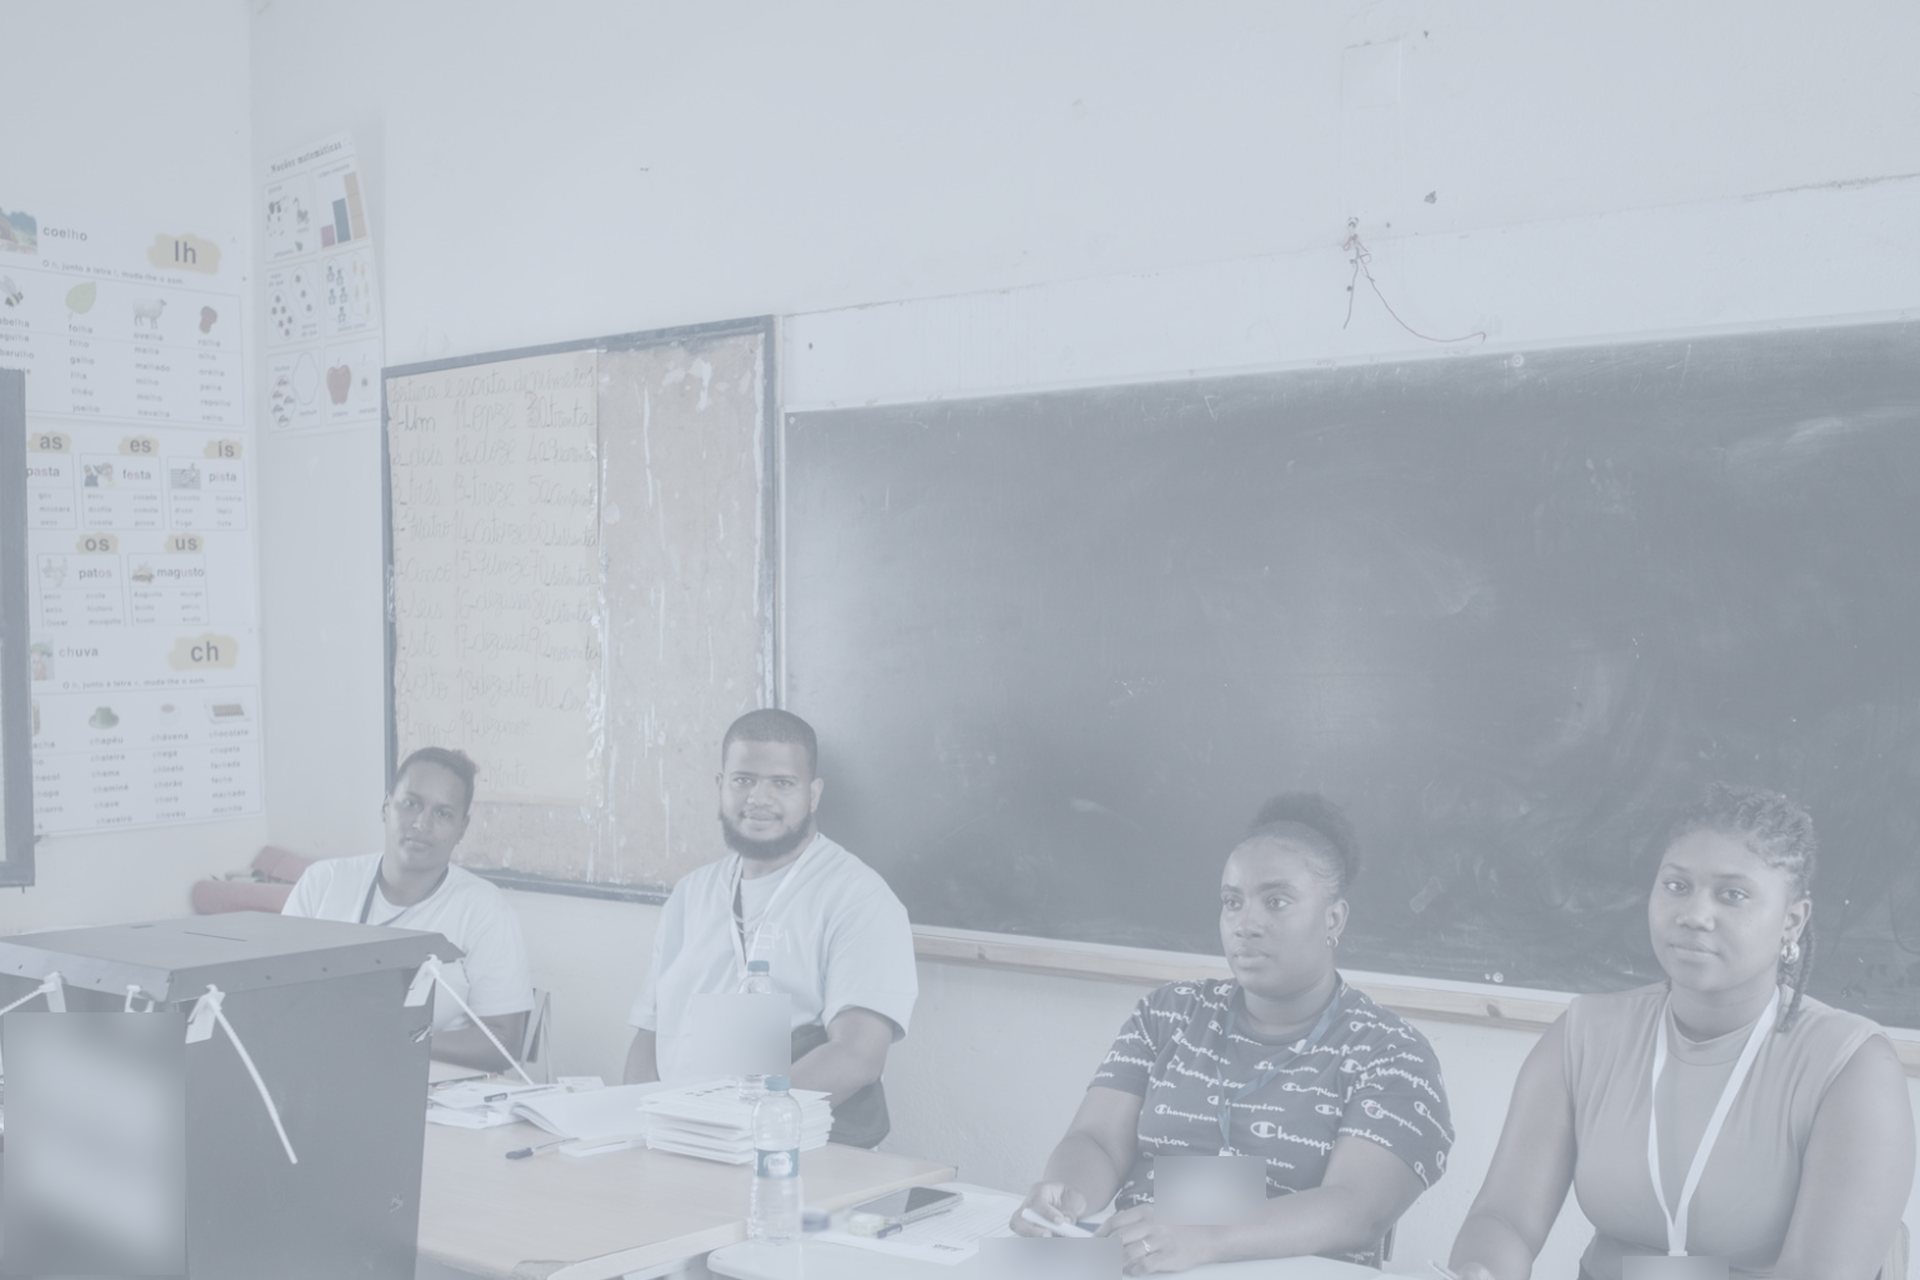
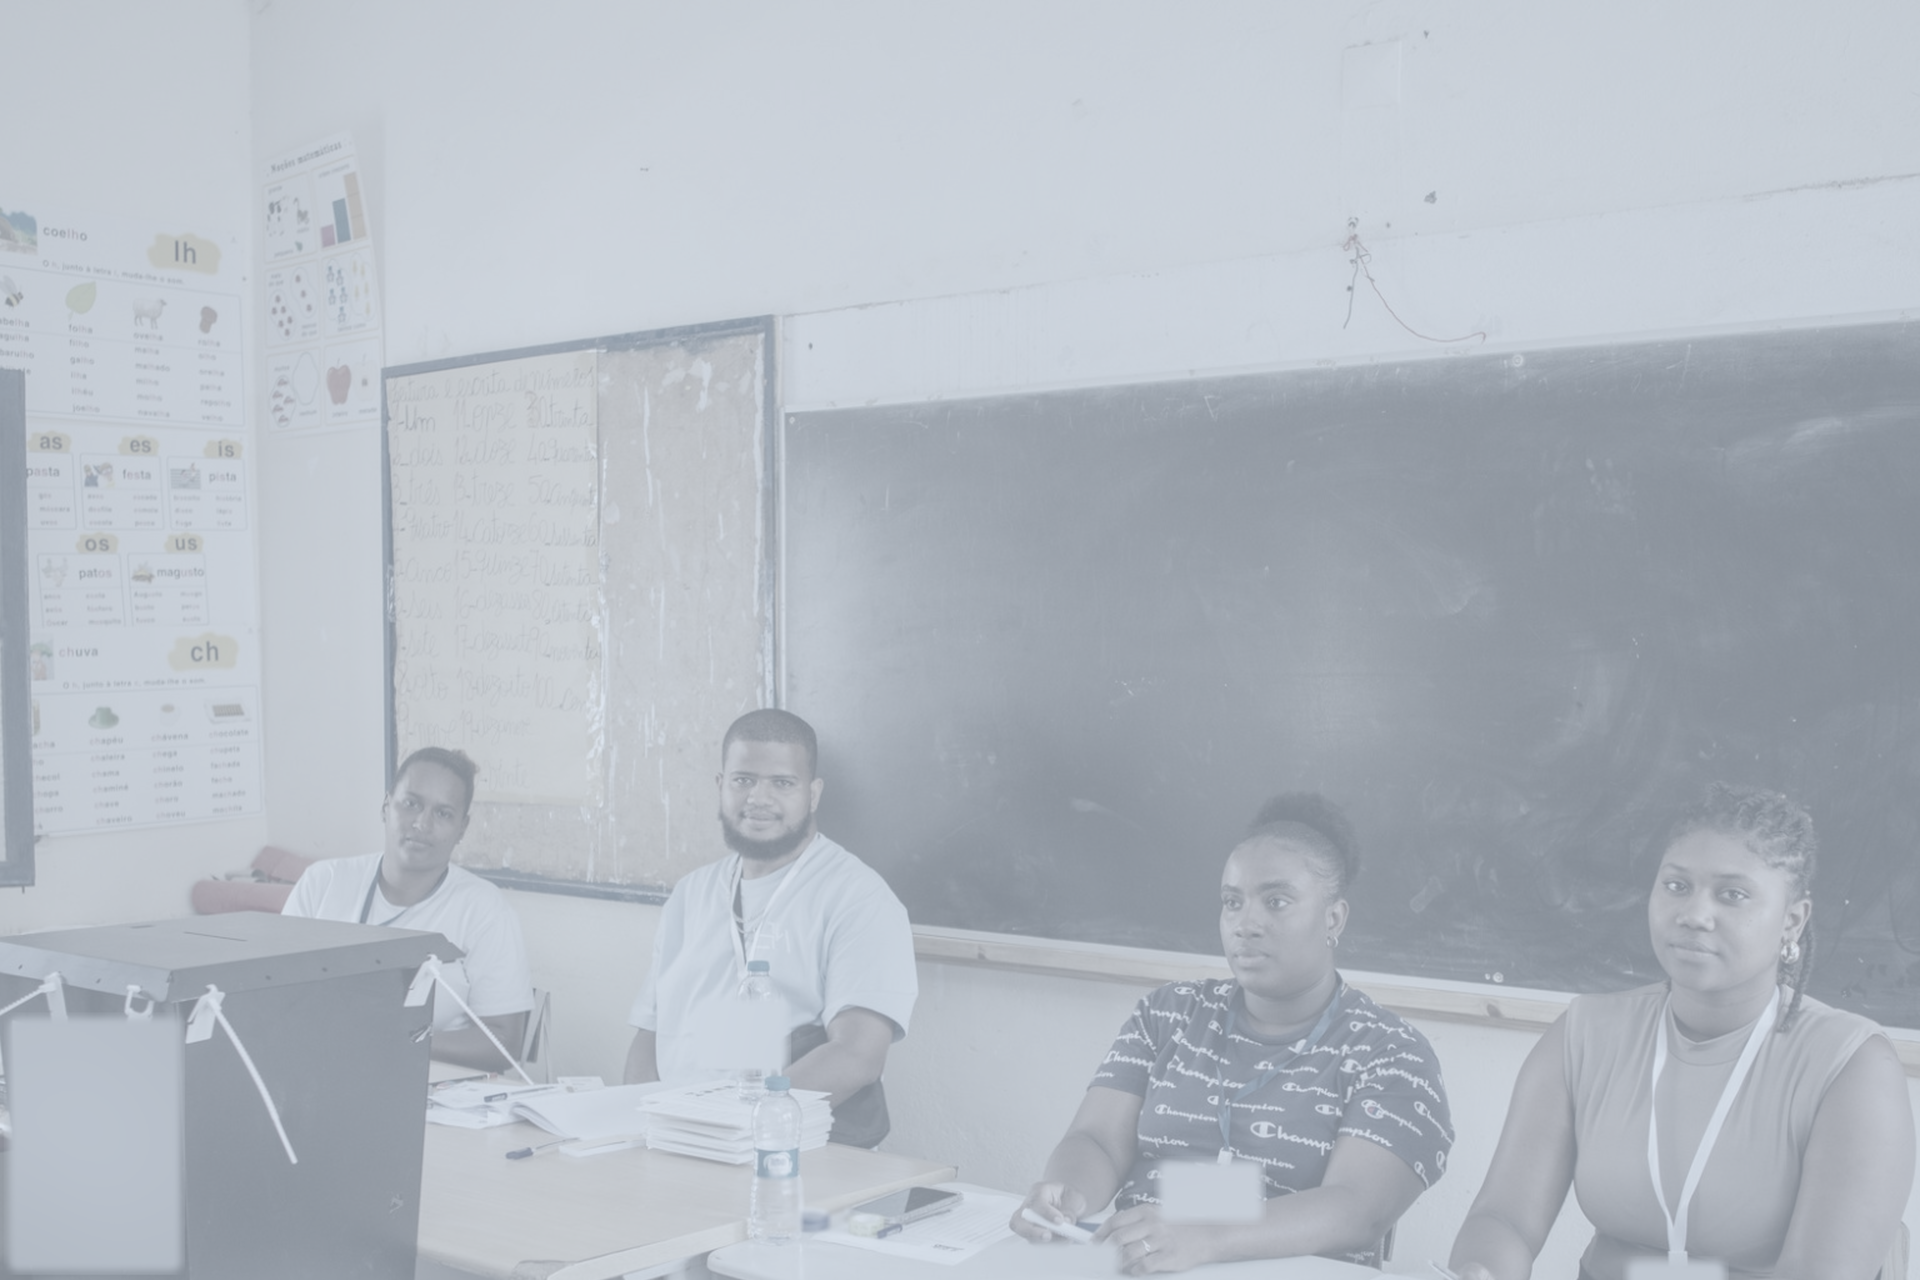
V1: blueprint de alterações (ícones para 'são restritos', 'são eles' só texto, fotos novas em moldura ou fundo); rótulos de urna limpos
Claude-Session: https://claude.ai/code/session_01B7qCVcC1uXVL2xuSSAUW2M

diff --git a/comunicado_regras/novos_src/motion/v1anim.html b/comunicado_regras/novos_src/motion/v1anim.html
@@ -62,7 +62,7 @@ svg.vic .hm,svg.vic .hh,svg.vic .f,svg.vic .g1,svg.vic .g2{transform-box:view-bo
 <script src="node_modules/gsap/dist/gsap.min.js"></script>
 <script src="data.js"></script><script>window.VID=new URLSearchParams(location.search).get('v')||'V1';document.write('<script src="'+(VID=='V2'?'v2':'v1')+'/beats.js"><\/script>')</script>
 <script>
-const OPT=new Set(window.VID=='V2'?(new URLSearchParams(location.search).get('o')||'T1,M15,P4,S6').split(','):[]);
+const OPT=new Set((new URLSearchParams(location.search).get('o')||(window.VID=='V2'?'T1,M15,P4,S6':'')).split(','));
 const DUR=window.VIDS[window.VID].dur, tl=gsap.timeline({paused:true}), world=document.getElementById('world');
 const el=(tag,cls,p,css)=>{const e=document.createElement(tag);if(cls)e.className=cls;if(css)e.style.cssText=css;p&&p.appendChild(e);return e};
 const SZ={n:50,b:72,r:76,s:38,h:118,hn:118};
@@ -101,6 +101,13 @@ const ICS={
   <g data-g="1"><circle class="d" cx="55" cy="60" r="5.5" stroke="${C}" stroke-width="3.4"/><path class="d" d="M45,86 L45,78 C45,71 65,71 65,78 L65,86" stroke="${C}" stroke-width="3.4"/>
   <circle class="d" cx="80" cy="64" r="5.5" stroke="${C}" stroke-width="3.4"/><path class="d" d="M70,90 L70,82 C70,75 90,75 90,82 L90,90" stroke="${C}" stroke-width="3.4"/><path class="d" d="M63,74 L70,68" stroke="${C}" stroke-width="3.4"/>
   <path class="d" d="M60,40 A14,14 0 1 1 66,46 L56,49 Z" stroke="${RD}"/><circle class="f" cx="70" cy="28" r="2" fill="${RD}" stroke="none"/><path class="d" d="M70,33 L70,42" stroke="${RD}"/></g>`,
+ cadeado:C=>`<g data-g="0"><rect class="d" x="22" y="44" width="56" height="46" rx="7" stroke="${C}"/><circle class="d" cx="50" cy="63" r="5" stroke="${RD}"/><path class="d" d="M50,68 L50,77" stroke="${RD}"/></g>
+  <g data-g="0" class="sh"><path class="d" d="M34,44 L34,30 A16,16 0 0 1 66,30 L66,44" stroke="${C}"/></g>`,
+ semacesso:C=>`<g data-g="0"><circle class="d" cx="50" cy="34" r="11" stroke="${C}"/><path class="d" d="M28,80 C28,58 72,58 72,80" stroke="${C}"/></g>
+  <g data-g="1" class="no"><circle class="d" cx="50" cy="52" r="44" stroke="${RD}" stroke-width="6"/><path class="d" d="M19,83 L81,21" stroke="${RD}" stroke-width="6"/></g>`,
+ barreira:C=>`<g data-g="0"><path class="d" d="M18,30 L18,88" stroke="${C}"/><path class="d" d="M82,30 L82,88" stroke="${C}"/><path class="d" d="M10,90 L26,90" stroke="${C}"/><path class="d" d="M74,90 L90,90" stroke="${C}"/>
+  <circle class="d" cx="18" cy="26" r="4" stroke="${C}"/><circle class="d" cx="82" cy="26" r="4" stroke="${C}"/></g>
+  <g data-g="1" class="rope"><path class="d" d="M18,38 Q50,62 82,38" stroke="${RD}" stroke-width="6"/></g>`,
  engren:C=>`<g data-g="0" class="g1"><path class="d" d="${gear(38,42,30,9)}" stroke="${C}"/><circle class="d" cx="38" cy="42" r="10" stroke="${C}"/></g>
   <g data-g="0" class="g2"><path class="d" d="${gear(78,80,17,7)}" stroke="${C}"/><circle class="d" cx="78" cy="80" r="6" stroke="${C}"/></g>
   <g data-g="1" class="ok"><circle class="d" cx="84" cy="22" r="15" stroke="${RD}"/><path class="d" d="M77,22 L82,27 L92,16" stroke="${RD}" stroke-width="4.6"/></g>`,
@@ -151,6 +158,9 @@ function svgIcon(p,kind,st,cx,cy,s2,ts,t1){
     tl.to(h,{scale:1.18,duration:.14,yoyo:true,repeat:1,transformOrigin:'50% 70%'},9.05);tl.to(h,{rotation:8,duration:.07,yoyo:true,repeat:5,transformOrigin:'50% 90%'},9.1)}
   if(kind=='portaentra'){tl.to(s.querySelector('.arrow'),{x:-7,duration:.45,yoyo:true,repeat:Math.max(1,Math.floor((t1-after)/.45)-1),ease:'sine.inOut'},after)}
   if(kind=='saida'){tl.to(s.querySelector('.arrow'),{x:7,duration:.45,yoyo:true,repeat:Math.max(1,Math.floor((t1-after)/.45)-1),ease:'sine.inOut'},after)}
+  if(kind=='cadeado'){const sh=s.querySelector('.sh');tl.fromTo(sh,{y:-14},{y:0,duration:.25,ease:'power4.in'},9.1);tl.to(s,{scale:1.08,duration:.1,yoyo:true,repeat:1},9.35)}
+  if(kind=='semacesso'){tl.fromTo(s.querySelector('.no'),{scale:1.4,transformOrigin:'50% 50%'},{scale:1,duration:.4,ease:'back.out(2)'},ts[1])}
+  if(kind=='barreira'){tl.fromTo(s.querySelector('.rope'),{y:-10},{y:0,duration:.8,ease:'elastic.out(1,.4)'},ts[1]+.3)}
   if(kind=='engren'){const g1=s.querySelector('.g1'),g2=s.querySelector('.g2');const o={a:0},sg=()=>{g1.setAttribute('transform',`rotate(${o.a*300} 38 42)`);g2.setAttribute('transform',`rotate(${-o.a*540} 78 80)`)};tl.fromTo(o,{a:0},{a:1,duration:t1-T,ease:'none',onUpdate:sg,onStart:sg},T);sg();
     tl.fromTo(s.querySelector('.ok'),{scale:.4,transformOrigin:'50% 50%'},{scale:1,duration:.5,ease:'back.out(3)'},ts[1])}
   if(kind=='checklist'){ts.slice(1).forEach(t=>tl.to(s,{scale:1.05,duration:.12,yoyo:true,repeat:1},t+.1))}
@@ -209,6 +219,11 @@ function trans(st,t){const A=st=='A';
 const scn=n=>n.replace(/[a-z]$/,'');
 // ---------- batidas ----------
 const BT=window.BEATS; let lista=null;
+if(window.VID=='V1'){const RI=['R1','R2','R3'].find(k=>OPT.has(k)),ICN={R1:'cadeado',R2:'semacesso',R3:'barreira'};
+  const PH={'6c':['tempo','V6c',['relogio']],'7a':['pres','V7a',[]],'7b':['extra','V7b',[]],'7c':['autoriza','V7c',[]]};
+  BT.forEach(b=>{if(b.n=='3'&&RI)b.ics=[ICN[RI]];
+    if(PH[b.n]&&OPT.has('F1')){b.ics=[];b.frame=PH[b.n][0]}
+    if(PH[b.n]&&OPT.has('F2')){b.ics=['bg_v1'+PH[b.n][0],...PH[b.n][2]];b.lay=PH[b.n][1]}})}
 BT.forEach(b=>{const MV=['M10','M11','M12','M13','M14','M15','M16','M17','M18'].find(k=>OPT.has(k));
   if(b.n=='23b'&&MV){b.ics=MV=='M11'?[]:['bg_13a'];b.st='A';b.lay=MV}
   else if(b.n=='23b'&&OPT.has('M7')){b.ics=['bg_13a'];b.st='A';b.lay='M7'}
@@ -224,6 +239,7 @@ BT.forEach(b=>{const MV=['M10','M11','M12','M13','M14','M15','M16','M17','M18'].
   if(b.n=='28'&&(OPT.has('S1')||OPT.has('S2')))b.ics=[OPT.has('S2')?'PANELSUP':'bg_sup','troca']});
 const LAY={bg_13:{tx:[140,215],ic:[1560,400,300],ts:{engren:[11.35,14.6],checklist:[11.35,11.9,12.6,14.6]}},bg_38:{tx:[140,575],ic:[1650,330,250],ts:{tel1:[36.7,39.2],tel2:[36.7,39.2]}},
   bg_sup:{dy:150,ic:[560,720,300]},
+  V6c:{kb:1,tx:[960,175]},V7a:{kb:1,tx:[1010,690]},V7b:{kb:1,tx:[140,690]},V7c:{kb:1,bgTop:0,tx:[140,195]},
   M7:{kb:1,bgTop:0,custom:1},M10:{kb:1,bgTop:0,bgLeft:560,custom:1},M11:{custom:1},M12:{kb:1,bgTop:0,custom:1},
   M13:{kb:1,bgTop:0,custom:1,cc:{top:178,sz:[.82,.92,.82,.82],dx:[0,0,0,0]}},
   M14:{kb:1,bgTop:0,custom:1,cc:{top:178,sz:[.82,.92,.82,.82],dx:[-170,-60,60,170]}},
@@ -242,6 +258,31 @@ BT.forEach((b,i)=>{
   if(!prev||prev.st!=st){if(prev)trans(st,t0);else setStyle(st,t0)}
   const ics=b.ics;
   // LISTA (5a..5e): um só bloco persistente
+  const LV=['L1','L2','L3'].find(k=>OPT.has(k));
+  if(Array.isArray(ics)&&ics[0]=='LISTA'&&LV){
+    if(!lista){const g=el('div','beat '+st,world);const tEnd=BT.filter(x=>Array.isArray(x.ics)&&x.ics[0]=='LISTA').pop().t1;
+      tl.set(g,{visibility:'visible'},t0);tl.set(g,{visibility:'hidden'},tEnd);
+      const k=el('div','abs',g,'left:140px;top:205px');kicker(k,b.kick,st,t0+.1);
+      const items=[['MEMBROS','DA MESA'],['REPRESENTANTES','DA CNE E APOIO'],['CANDIDATOS','E MANDATÁRIOS'],['DELEGADOS','DAS CANDIDATURAS']];
+      const row=el('div','abs',g,`left:140px;right:140px;top:${LV=='L2'?360:430}px;display:flex;justify-content:space-between;align-items:flex-start`);
+      const cols=items.map((it,j)=>{const c=el('div','',row,'position:relative');
+        if(LV=='L2'){const nb=el('div','',c,'font-weight:800;color:#D4292E;font-size:130px;line-height:1;margin-bottom:14px');nb.textContent='0'+(j+1)}
+        const t1_=el('div','',c,'font-weight:800;color:'+(LV=='L3'?'#fff':'#19296D')+';font-size:'+(LV=='L3'?40:48)+'px;white-space:nowrap;line-height:1.1;display:inline-block');t1_.textContent=it[0];
+        if(LV=='L3'){t1_.style.cssText+=';background:#19296D;border-radius:60px;padding:22px 32px'}
+        const t2=el('div','',c,'font-weight:800;color:#D4292E;font-size:'+(LV=='L3'?30:32)+'px;white-space:nowrap;margin-top:'+(LV=='L3'?18:12)+'px'+(LV=='L3'?';padding-left:32px':''));t2.textContent=it[1];
+        if(LV=='L1'&&j>0){const ln=el('div','abs',c,'left:-34px;top:-8px;width:5px;height:120px;background:#D4292E;transform-origin:50% 0');c._ln=ln}
+        const ul=el('div','abs',c,'left:'+(LV=='L3'?32:0)+'px;top:100%;margin-top:20px;width:130px;height:9px;background:#D4292E;transform-origin:0 50%');c._ul=ul;tl.set(ul,{scaleX:0},0);
+        return c});
+      const foot=el('div','abs',g,`left:140px;top:${LV=='L2'?800:760}px;font-weight:800;color:#19296D;font-size:44px`);foot.textContent='NOS TERMOS DA LEI';
+      lista={g,cards:cols,foot};tl.set(cols,{opacity:0},0)}
+    const f=ics[1], C=lista.cards;
+    if(f!==null){const c=C[f];const tw=[23.55,24.95,28.55,32.05][f];
+      tl.fromTo(c,{opacity:0,y:LV=='L3'?-120:60},{opacity:1,y:0,duration:.7,ease:LV=='L3'?'bounce.out':'power3.out'},tw);if(c._ln)tl.fromTo(c._ln,{scaleY:0},{scaleY:1,duration:.5},tw);
+      tl.to(c._ul,{scaleX:1,duration:.5,ease:'expo.out'},tw+.3);
+      C.slice(0,f).forEach(o=>{tl.to(o,{opacity:.4,duration:.4},tw);tl.to(o._ul,{scaleX:0,duration:.3},tw)})}
+    else{tl.to(C,{opacity:1,duration:.5,stagger:.05},t0+.05);tl.fromTo(lista.foot,{opacity:0,x:-30},{opacity:1,x:0,duration:.5},t0+.2)}
+    if(next&&!(Array.isArray(next.ics)&&next.ics[0]=='LISTA'))tl.to(lista.g,{opacity:0,duration:.3},t1-.3);
+    return}
   if(Array.isArray(ics)&&ics[0]=='LISTA'){
     if(!lista){const g=el('div','beat '+st,world);const tEnd=BT.filter(x=>Array.isArray(x.ics)&&x.ics[0]=='LISTA').pop().t1;
       tl.set(g,{visibility:'visible'},t0);tl.set(g,{visibility:'hidden'},tEnd);
@@ -351,12 +392,14 @@ BT.forEach((b,i)=>{
     if(MF=='MESA'){img(w,'v1/mesa.png','width:870px;left:0;top:0')}
     else{const o=img(w,'v1/mesa_out.png','width:870px;left:0;top:0'),p=img(w,'v1/mesa_pres.png','width:870px;left:0;top:0;transform-origin:50% 100%');
       tl.to(o,{opacity:.35,filter:'grayscale(1)',duration:.6},t0+1.3);tl.fromTo(p,{scale:1},{scale:1.05,duration:.6,ease:'back.out(2)'},t0+1.3)}}
+  if(b.frame){const fr=el('div','abs',g,'left:110px;top:290px;width:780px;height:520px;border-radius:36px;overflow:hidden;box-shadow:0 22px 44px rgba(0,0,0,.28)');const pi=img(fr,'v2/fr_'+b.frame+'.jpg','left:0;top:0;width:780px');
+    tl.fromTo(fr,{clipPath:'inset(0% 50% 0% 50% round 36px)',y:40},{clipPath:'inset(0% 0% 0% 0% round 36px)',y:0,duration:.9,ease:'power3.out'},t0+.1);tl.fromTo(pi,{scale:1.12},{scale:1,duration:t1-t0,ease:'none'},t0)}
   if(ics[0]=='FOTO2'){const u=img(g,'v1/urna.png','height:760px;left:'+(510-0.415*760)+'px;top:-6px');tl.fromTo(u,{y:-200,opacity:0},{y:0,opacity:1,duration:.9,ease:'power3.out'},t0)}
   const LY=LAY[b.lay||BGK||ics[0]]; const NOCARD=BGK=='bg_3a'||!!LY; if(st=='B'&&L.length&&!MF&&!NOCARD){const c=el('div','card',g,'left:220px;top:290px;width:580px;height:540px');tl.fromTo(c,{scale:.8,opacity:0},{scale:1,opacity:1,duration:.6,ease:'back.out(1.5)'},b.n=='3'?6.6:t0)}
   const icTimes=[b.n=='3'?6.75:t0+.15,(b.lines[1]||b.lines[0]||[0,0,t0+.8])[2]];
     L.forEach((k,j)=>{let sz=L.length==1?360:(j==0?230:200), cx=L.length==1?510:(j==0?395:645), cy=L.length==1?560:(j==0?540:600);
-    if(NOCARD){sz=260;cx=330;cy=330} if(LY){[cx,cy,sz]=LY.ic}
-    const s2=sz*600/440, T0=b.n=='3'?6.75:t0+.15; let ts=k=='autoriza'?[T0,b.lines[1][2]-.05]:[j==0?T0:Math.max(T0+.5,icTimes[1]-.1)]; if(LY&&LY.ts&&LY.ts[k])ts=LY.ts[k];
+    if(NOCARD){sz=260;cx=330;cy=330} if(LY&&LY.ic){[cx,cy,sz]=LY.ic}
+    const s2=sz*600/440, T0=b.n=='3'?6.75:t0+.15; let ts=k=='autoriza'?[T0,b.lines[1][2]-.05]:[j==0?T0:Math.max(T0+.5,icTimes[1]-.1)]; if(LY&&LY.ts&&LY.ts[k])ts=LY.ts[k]; if(b.n=='3'&&/semacesso|barreira/.test(k))ts=[6.75,9.1];
     svgIcon(g,k,st,cx,cy,s2,ts,t1)});
   const tx=el('div','txt '+st,g); let kk=null; if(NOCARD&&!LY){tx.style.left='140px';tx.style.top='190px'} if(LY){if(LY.tx){tx.style.left=LY.tx[0]+'px';tx.style.top=LY.tx[1]+'px';tx.style.height='auto';tx.style.paddingBottom='0'} if(LY.dx)tx.style.left=LY.dx+'px'; if(LY.dy)tx.style.top=LY.dy+'px';
     if(LY.center!=null){tx.style.cssText+=`;left:0;width:1920px;top:${LY.center}px;height:auto;padding-bottom:0;align-items:center`;

diff --git a/comunicado_regras/novos_src/bp_v1_alt.py b/comunicado_regras/novos_src/bp_v1_alt.py
@@ -1,0 +1,49 @@
+# Blueprint V2 · 2 opções por alteração (frames reais do motor: render.js TEST com ?o=...)
+import subprocess,shutil
+from PIL import Image,ImageDraw,ImageFont
+S='/tmp/claude-0/-home-user-claude/6db99166-337f-5ef1-806e-773090ba29c3/scratchpad/'
+def frames(o,ts):
+    import os
+    if all(os.path.exists(S+f'bw_{o}_{t}.jpg') for t in ts): return [S+f'bw_{o}_{t}.jpg' for t in ts]
+    v='V1'+('&o='+o if o else '')
+    subprocess.run(['node','render.js',v,'TEST',S+'_x.jpg',*map(str,ts)],cwd='motion',env={**__import__('os').environ,'PAGE':'v1anim.html'},check=True)
+    out=[]
+    for t in ts: f=S+f'bw_{o}_{t}.jpg'; shutil.copy(S+'_t'+('%g'%t)+'.jpg',f); out.append(f)
+    return out
+F=ImageFont.truetype('../realista_src/fonts/M800.ttf',30); F2=ImageFont.truetype('../realista_src/fonts/M700.ttf',22); FT=ImageFont.truetype('../realista_src/fonts/M800.ttf',48); FH=ImageFont.truetype('../realista_src/fonts/M800.ttf',36)
+R=[('1 · 0:05–0:10 · "SÃO RESTRITOS" · SUGESTÕES DE ÍCONE',[
+   ('Atual · Porta com mão','(para comparar)','T1',[7.5,9.8]),
+   ('Opção 1 · Cadeado','o fecho do cadeado fecha em "restritos"','T1,R1',[7.5,9.8]),
+   ('Opção 2 · Acesso proibido','pessoa + sinal vermelho que se desenha em "restritos"','T1,R2',[7.5,9.8]),
+   ('Opção 3 · Barreira','dois postes; a fita vermelha cai em "restritos"','T1,R3',[7.5,9.8])]),
+ ('2 · 0:22–0:35 · "SÃO ELES" · SÓ TEXTO NA HORIZONTAL',[
+   ('Opção 1 · Colunas','nome + função, separados por filetes vermelhos','T1,L1',[26.0,30.0,33.0,34.8]),
+   ('Opção 2 · Numerado','01 · 02 · 03 · 04 grandes em vermelho','T1,L2',[26.0,30.0,33.0,34.8]),
+   ('Opção 3 · Etiquetas','cada nome numa etiqueta azul que cai','T1,L3',[26.0,30.0,33.0,34.8])]),
+ ('3 · FOTOS NOVAS · 0:42 SÓ O TEMPO · 0:48 PRESIDENTE · 0:53 CREDENCIAIS · 0:56 ANTES DE AUTORIZAR',[
+   ('Opção 1 · Foto em moldura','a foto entra no lugar do ícone/ilustração; texto igual','T1,F1',[46.0,51.0,54.5,60.0]),
+   ('Opção 2 · Foto de fundo','foto inteira, sem zoom; texto onde não tapa caras','T1,F2',[46.0,51.0,54.5,60.0])])]
+tw,th=560,315; LW=400; G=24
+rows=sum(len(r[1]) for r in R); H=150+len(R)*70+rows*(th+G)+40
+W=Image.new('RGB',(LW+4*(tw+G)+40,H),(244,246,250)); d=ImageDraw.Draw(W)
+d.text((36,44),'VÍDEO 1 · ACESSO E PERMANÊNCIA · ALTERAÇÕES',font=FT,fill=(25,41,109))
+y=140
+for sec,items in R:
+    d.text((36,y+14),sec,font=FH,fill=(212,41,46)); y+=70
+    for name,desc,o,ts in items:
+        p=name.split(' · '); d.text((36,y+20),p[0],font=F,fill=(212,41,46))
+        if len(p)>1:
+            fs=30
+            while d.textlength(p[1],font=ImageFont.truetype('../realista_src/fonts/M800.ttf',fs))>LW-50: fs-=1
+            d.text((36,y+60),p[1],font=ImageFont.truetype('../realista_src/fonts/M800.ttf',fs),fill=(25,41,109))
+        yy=y+104
+        for ln in [desc[i:i+26] for i in range(0,0)] or []: pass
+        words=desc.split(); line=''
+        for w in words:
+            if d.textlength(line+' '+w,font=F2)>LW-50: d.text((36,yy),line.strip(),font=F2,fill=(70,80,110)); yy+=30; line=''
+            line+=' '+w
+        d.text((36,yy),line.strip(),font=F2,fill=(70,80,110))
+        for i,f in enumerate(frames(o,ts)):
+            x=LW+i*(tw+G); W.paste(Image.open(f).resize((tw,th)),(x,y)); d.text((x+10,y+th-34),f'{ts[i]:.2f}s',font=F2,fill=(255,255,255),stroke_width=2,stroke_fill=(0,0,0))
+        y+=th+G
+W.save('../Blueprint_V1_alteracoes.jpg',quality=88); print(W.size)

diff --git a/comunicado_regras/novos_src/v2src/prep_fotos.py b/comunicado_regras/novos_src/v2src/prep_fotos.py
@@ -3,8 +3,19 @@ import numpy as np
 from PIL import Image, ImageFilter
 D='motion/v2/'
 def blur(im,boxes):
+    # rótulo "em branco": pinta a área com a cor clara do próprio papel e suaviza a borda (sem texto legível, sem retângulo duro)
+    import numpy as np
+    from PIL import ImageDraw
     for b in boxes:
-        r=im.crop(b).filter(ImageFilter.GaussianBlur(14)); im.paste(r,b[:2])
+        Q=None
+        if isinstance(b[0],tuple): Q=b; xs=[q[0] for q in Q]; ys=[q[1] for q in Q]; b=(min(xs),min(ys),max(xs),max(ys))
+        x0,y0,x1,y1=b; a=np.asarray(im.crop(b)).reshape(-1,3); L=a.sum(1)
+        if Q: a=a[L>=np.percentile(L,40)]; L=a.sum(1)
+        col=tuple(int(v) for v in np.median(a[L>=np.percentile(L,70)],0))
+        p=4; pat=Image.new('RGB',(x1-x0,y1-y0),col)
+        g=im.crop(b).filter(ImageFilter.GaussianBlur(40)); pat=Image.blend(pat,g,.25)
+        m=Image.new('L',pat.size,0); (ImageDraw.Draw(m).polygon([(q[0]-x0,q[1]-y0) for q in Q],fill=255) if Q else ImageDraw.Draw(m).rounded_rectangle((p,p,pat.width-p,pat.height-p),radius=6,fill=255)); m=m.filter(ImageFilter.GaussianBlur(3))
+        im.paste(pat,(x0,y0),m)
     return im
 def washB(im):  # mesmo tratamento das fotos B do V2
     a=np.asarray(im.convert('RGB')).astype(np.float32); g=(a@[.3,.59,.11])[...,None].repeat(3,2)
@@ -35,4 +46,4 @@ f=blur(Image.open('v2src/foto_13b.jpg').convert('RGB'),[(808,685,898,745),(440,7
 tintA(f.resize((1920,1280),Image.LANCZOS)).save(D+'bg_13a.png')
 f=blur(Image.open('v2src/foto_13b.jpg').convert('RGB'),[(808,685,898,745),(440,700,480,760),(580,700,620,760),(950,690,990,740)])
 f.resize((1000,667),Image.LANCZOS).save(D+'panel_13.jpg',quality=92)
-print('ok')
+if __name__=="__main__": print("ok")

diff --git a/comunicado_regras/novos_src/v1src/prep_v1fotos.py b/comunicado_regras/novos_src/v1src/prep_v1fotos.py
@@ -1,0 +1,15 @@
+# Fotos novas do V1: rótulos de urna, crachás e coletes desfocados; versões moldura (cor) e fundo (A azul / B claro)
+import sys; sys.path.insert(0,'v2src')
+from PIL import Image, ImageFilter, ImageOps
+from prep_fotos import blur, washB, tintA
+D='motion/v2/'
+B={'pres':[((64,827),(407,849),(424,1173),(83,1135)),(1750,830,1860,1010)],
+   'extra':[(0,510,95,680)],
+   'autoriza':[((728,853),(882,851),(878,960),(866,1060),(730,1060)),(1630,740,1730,840)],
+   'tempo':[((1149,769),(1474,788),(1479,1088),(1160,1057)),(1770,925,1835,1005)]}
+for n,bx in B.items():
+    f=blur(ImageOps.exif_transpose(Image.open(f'v1src/{n}.jpg')).convert('RGB'),bx)
+    f.resize((1200,800),Image.LANCZOS).save(D+f'fr_{n}.jpg',quality=92)
+    g=f.resize((1920,1280),Image.LANCZOS)
+    (tintA(g) if n=='tempo' else washB(g)).save(D+f'bg_v1{n}.png')
+print('ok')
